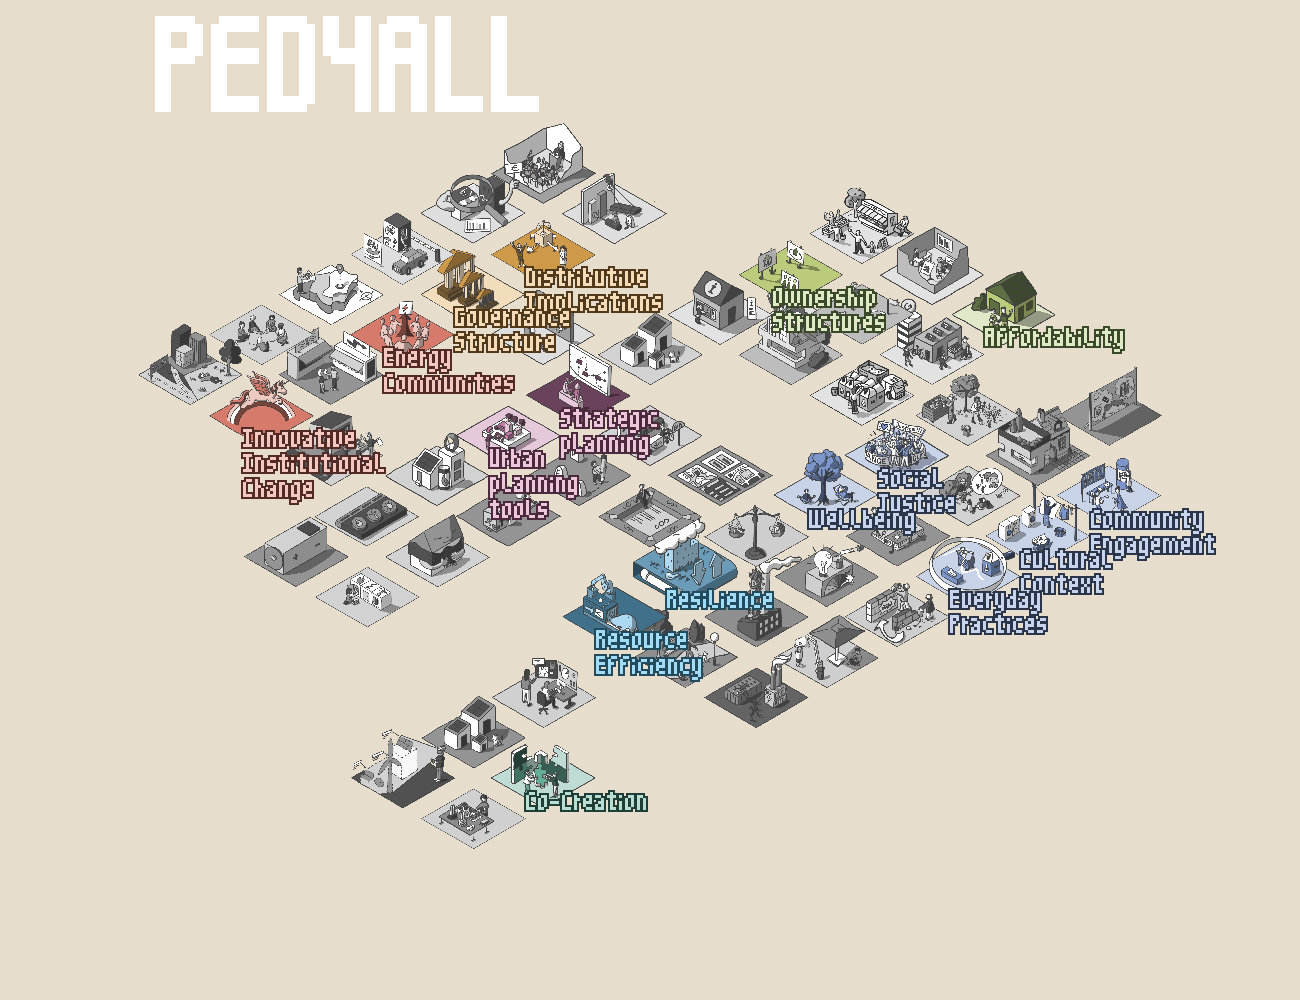
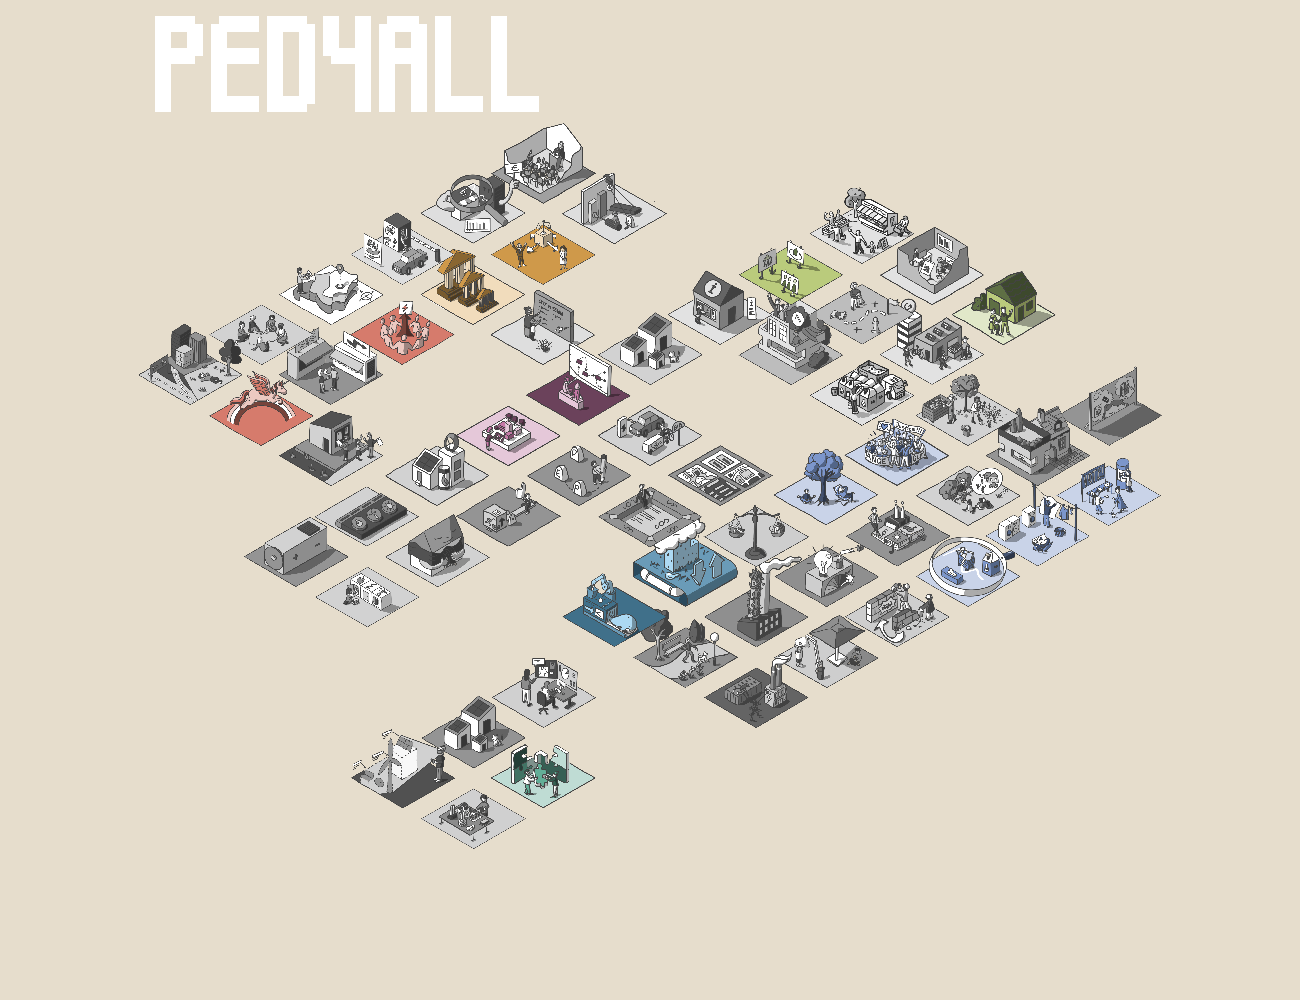
Proper commit of project screenshots Updated ped_landscape.py

diff --git a/ped_landscape.py b/ped_landscape.py
@@ -3,6 +3,7 @@ import random
 import deengi
 import numpy as np
 import os
+import json
 from datetime import datetime
 
 IMAGE_FOLDER_PATH = 'assets/img'
@@ -316,7 +317,8 @@ class Landscape:
         screenshot_dir.mkdir(parents=True, exist_ok=True)  # Ordner anlegen falls nicht vorhanden
 
         if filename is None:
-            filename = self.project_name + f"_{datetime.now().strftime('%Y%m%d_%H%M%S')}.png"
+            #filename = self.project_name + f"_{datetime.now().strftime('%Y%m%d_%H%M%S')}.png"
+            filename = "NoText_" + self.project_name + ".png"
         
         filepath = screenshot_dir / filename
 
@@ -342,6 +344,23 @@ class Landscape:
         
         #self.engine.add_callback()
         self.engine.run()
+
+    def set_project_keywords_from_file(self, filename, type="project", project_number = 0, print_projects=True):
+        import json
+        with open(filename, "r", encoding="utf-8") as f:
+            projects = json.load(f)
+
+        if type == "deliverable":
+            projects = projects[project_number]["deliverables"]
+            for dicts in projects:
+                dicts["project"] = dicts.pop("name")
+
+        from functools import partial
+        for i, project in enumerate(projects):
+            print(project)
+            cb = partial(landscape.set_project, project)
+            print("binding key", i+1, "to project", project["project"])
+            landscape.engine.bind_key(str(i+1), cb, binding_name=f"Project {i+1} {project["project"]}")
         
     
 if __name__ == '__main__':
@@ -351,21 +370,9 @@ if __name__ == '__main__':
     # Create a Landscape instance
     landscape = Landscape(layout="pestel", debug=False)
     
-    #print(landscape.keyword_names)
-    
-    # import project keywords
-    import json
-    with open("all_results_may_fixedkeywords.json", "r", encoding="utf-8") as f:
-        projects = json.load(f)
+    filename = "all_results_may_fixedkeywords.json"
 
-   #landscape.set_project(projects[0])  # Set the first project as an example
-    from functools import partial
-    for i, deliverable in enumerate(projects[0]["deliverables"]):
-        print(deliverable)
-        cb = partial(landscape.set_deliverables, deliverable)
-
-        print("binding key", i+1, "to project", deliverable["name"])
-        landscape.engine.bind_key(str(i+1), cb, binding_name=f"Project {i+1} {deliverable["name"]}")
+    landscape.set_project_keywords_from_file(filename, type="project", print_projects=True)
     
     landscape.show()
     
